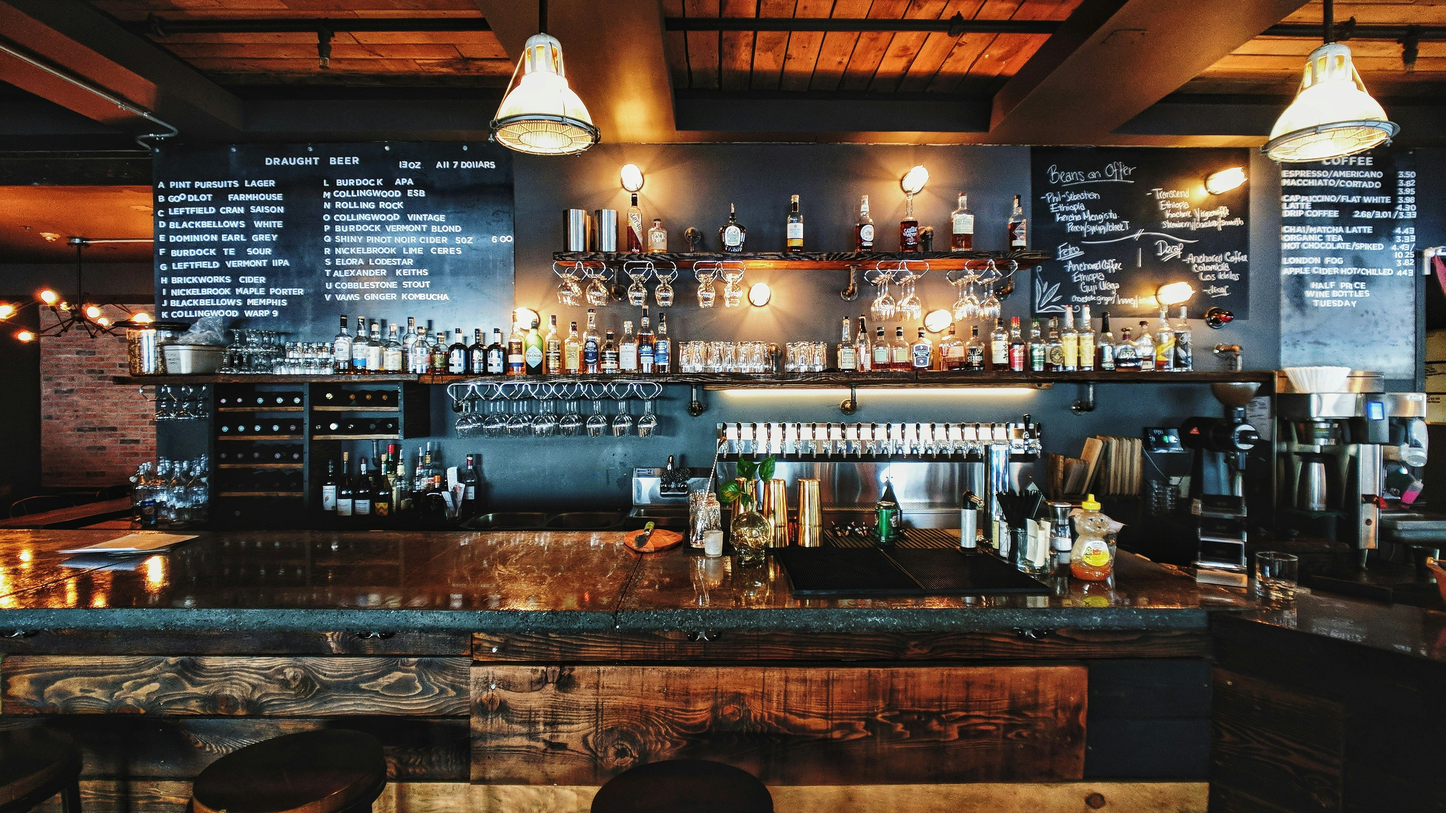
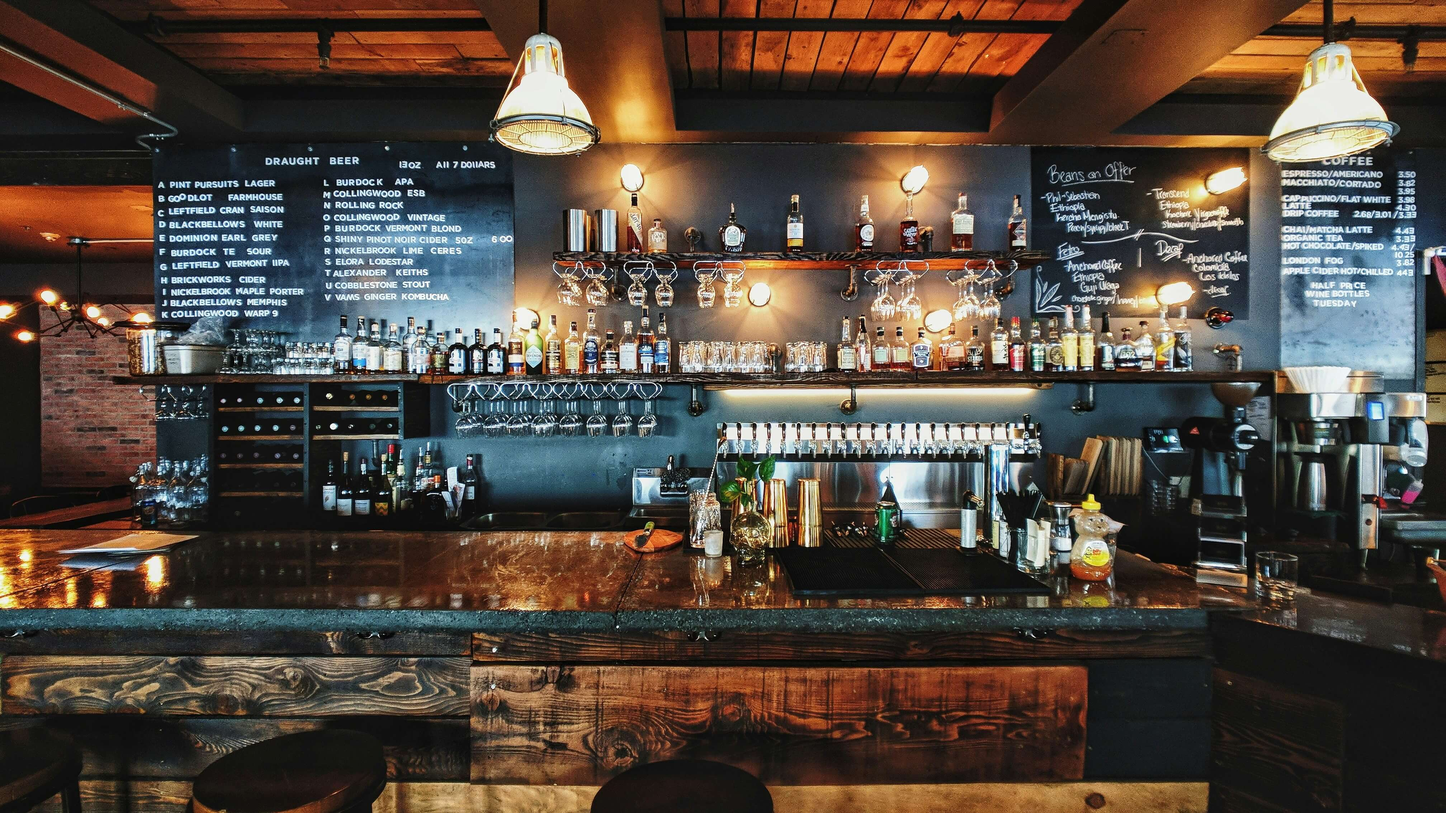
update picture to compressed version to save space and loading times

diff --git a/README.md b/README.md
@@ -1,1 +1,329 @@
-# User-Centric-Frontend-Development--Build-n-Blend
+Build n Blend
+
+Lunar Escape Company is looking for people who want to win a trip to the Moon.
+Anybody can sign up through the form application and choose between options such as a regular flight, exploring the surface, or even both.
+The form is already set up to include both options; it is up to the user to decide.
+
+In the about section, there are job opportunities as well, as Lunar Escape Company is always looking for talented people to hire.
+There are links for social media contact and even an address and a phone number.
+
+![Am I Responsive](assests/images/am-i-responsive.png)
+
+[View Build n Blend live project here](https://github.com/RhysTyler112/User-Centric-Frontend-Development--Build-n-Blend/)
+- - -
+## Table of Contents
+
+### [User Experience (UX)](#user-experience-ux-1)
+* [User Stories](#user-stories)
+### [Design](#design-1)
+### [Features](#features)
+* [Existing Features](#existing-features)
+### [Features Left to Implement](#features-left-to-implement-1)
+### [Technologies Used](#technologies-used-1)
+### [Frameworks, Libraries & Programs Used](#frameworks-libraries--programs-used-1)
+### [Testing](#testing-1)
+* [Validation Results](#validation-results)
+* [Manual Testing](#manual-testing)
+* [Lighthouse Report](#lighthouse-report)
+### [Deployment and local development](#deployment-and-local-development-1)
+* [GitHub Pages](#github-pages)
+* [Forking the GitHub Repository](#forking-the-github-repository)
+* [Local Clone](#local-clone)
+### [Credits](#credits-1)
+### [Acknowledgements](#acknowledgements-1)
+---
+
+## User Experience (UX)
+
+This website is meant to attract people who like space exploration and would like to win a trip to the Moon.
+
+There is clear navigation and a form set up on the sign-up page to apply to win the trip.
+
+Users can contact Lunar Escape if they wish to join the company itself. They are always looking for people with talent.
+
+### User Stories
+
+ * First-time visitor goals
+    * Understand the main purpose of the site and learn more about the Lunar Escape company.
+    * Easily navigate throughout the site.
+    * Find the Sign Up form and fill it out.
+ * Returning visitor goals
+    * Find out information about the company.
+    * Locate contact information.
+    * Review the site's extensive gallery.
+
+ * Frequent user goals
+    * Check if there are any new packages to apply for in the sign-up form.
+    * Review the gallery for any new photos.
+- - -
+
+## Features
+
+* This website is targeting people who want to win a trip to the moon.
+* They can do that by navigating to the sign-up page and filling out a form.
+* Responsive on all device sizes.
+
+### Existing Features
+
+* Navigation bar
+    * It is featured and fixed on all three pages and the form-received page.
+    * Includes links to the logo, home page, gallery, and sign-up page.
+    * It is identical in design across the pages.
+    * Allows easy navigation from page to page without having to revert back to the previous page via the "back" button.
+
+![Navigation](/assets/images/nav-bar.PNG)
+
+* Main heading
+    * It is composed of a background image featuring "stars in the night sky".
+    * Main heading, which is unique for each page:
+        * The home page is comprised of 'Are you ready to explore the moon?"
+        * Gallery is made up of 'Welcome to our Gallery'.
+        * The sign up page is comprised of 'Application Form'
+        * appllication-received is comprised of 'Application Received'.
+
+![Main heading](/assets/images/main-heading-image.PNG)
+
+* Section one, Dreams and info
+    * This section contains a short heading followed by images.
+    * It gives us a brief description of what we can accomplish through this website.
+
+![Dreams and Info](/assets/images/section-one.PNG)
+
+* Section two, 'How is it possible?'
+    * Information about commercial rocket.
+    * Link to the Sign Up form page to apply for a lucky draw.
+
+![How is it possible?](/assets/images/section-two.PNG)
+
+* About Lunar Escape
+    * This section will allow users to get information about the Lunar Escape Company.
+    * Opportunity to join the company because they are always looking for talented people.
+    * Address and contact number.
+
+![About Lunar Escape](/assets/images/section-three.PNG)
+
+* Footer
+    * Links to the social media for Lunar Escape will open in a new tab to allow easy navigation for the user.
+    * It is valuable to the user as it gives them an easy contact option via social media.
+    * Hold copyright information about the author. 
+
+![Footer](/assets/images/footer-image.PNG)
+
+* Gallery 
+    * The gallery will provide the user with supporting images to see shuttle launches, flights, and astronauts.
+    * This section is valuable to the user as they will see our previous flights and astronauts on the Moon.
+
+![Gallery](/assets/images/gallery-image.PNG)
+
+* The Sign Up page
+    * This page will allow users to choose a package, sign up for it, and win a trip to the moon in a lucky draw.
+    * The user can choose a regular flight and explore the surface of both of these to be in the lucky draw.
+    * In the future, there might be more packages to choose from. 
+
+![Sign Up Form](/assets/images/form-image.PNG)
+
+* The Sign Up received page
+    * Form received
+
+![Form received](/assets/images/form-received-image.PNG)
+
+---
+
+## Features Left to Implement
+
+* Additional packages might be available in the form section.
+* Updated gallery with additional images.
+* In the future, there could be an online academy that will teach aerospace engineering, which you could join through this website.
+---
+
+## Design
+
+ * Colour Scheme
+    * Primary colors used on the website: ![Color Scheme](/assets/images/colors-used.png)
+
+ * Typography
+    * Kanit font is main font used throughout the ite with sans-serif as its fallback font in case Kanit doesn't import for some reasson.
+
+ * Wireframes
+    * Pen and paper in a notebook: simple and effective.
+---
+
+## Technologies Used
+
+ * [HTML5](https://en.wikipedia.org/wiki/HTML5)
+ * [CSS3](https://en.wikipedia.org/wiki/CSS)
+
+---
+
+## Frameworks, Libraries & Programs Used
+
+ * [Gitpod](https://www.gitpod.io/)
+    * To write the code.
+ * [Git](https://git-scm.com/)
+    * for vesion control.
+ * [Github](https://github.com/)
+    * Deployment of the website and storing the files online.
+ * [Google Fonts](https://fonts.google.com/)
+    * Import main font the website.
+* [Am I Responsive](https://ui.dev/amiresponsive)
+    * Mockup picture for the README file.
+---
+
+## Testing
+
+The W3C Markup Validator and W3C CSS Validator services were used to validate every page of the project to ensure there were no errors.
+
+ * [W3C Markup Validtor](https://validator.w3.org/)
+ * [W3C CSS Validator](https://jigsaw.w3.org/css-validator/)
+
+### Validation results
+
+<details>
+<summary>index.html
+</summary>
+
+![Home Page validation result](/assets/images/html-validation.PNG)
+</details>
+<details>
+<summary>gallery.html
+</summary>
+
+![Gallery validation result](/assets/images/html-validation.PNG)
+</details>
+<details>
+<summary>sign-up.html
+</summary>
+
+![Sign Up page validation result](/assets/images/html-validation.PNG)
+</details>
+<details>
+<summary>form-received.htmml
+</summary>
+
+![Application Received validation result](/assets/images/html-validation.PNG)
+</details>
+<details>
+<summary>style.css
+</summary>
+
+![CSS validation result](/assets/images/css-validation.PNG)
+</details>
+
+### Manual Testing
+
+* The website was tested on Google Chrome, Microsoft Edge, and Opera browsers.
+* The website was viewed on a desktop computer, laptop, and Samsung Galaxy A52 mobile phone.
+* A large amount of testing was done to ensure links between pages are working correctly on all pages.
+* Family and friends were asked to review the website for a better understanding of the user experience.
+* Dev Tools was used to test how the site looks on various screen sizes.
+
+### Lighthouse Report
+
+#### Mobile analysis
+<details>
+<summary>Home Page
+</summary>
+
+![Home Page lighthouse report](/assets/images/home-mobile-report.PNG)
+</details>
+<details>
+<summary>Gallery
+</summary>
+
+![Gallery lighthouse report](/assets/images/gallery-mobile-report.PNG)
+</details>
+<details>
+<summary>Sign Up
+</summary>
+
+![Sign Up Page lighthouse report](/assets/images/sign-up-mobile-report.PNG)
+</details>
+<details>
+<summary>Application Received
+</summary>
+
+![Application received lighthouse report](/assets/images/form-received-mobile-report.PNG)
+</details>
+
+#### Desktop analysis
+<details>
+<summary>Home Page
+</summary>
+
+![Home Page lighthouse report](/assets/images/home-page-report.PNG)
+</details>
+<details>
+<summary>Gallery
+</summary>
+
+![Gallery lighthouse report](/assets/images/gallery-report.PNG)
+</details>
+<details>
+<summary>Sign Up
+</summary>
+
+![Sign Up Page lighthouse report](/assets/images/sign-up-report.PNG)
+</details>
+<details>
+<summary>Application Received
+</summary>
+
+![Application received lighthouse report](/assets/images/form-received-report.PNG)
+</details>
+
+---
+
+## Deployment and local development
+
+### GitHub Pages
+
+GitHub Pages used to deploy live version of the website.
+1. Log in to GitHub and locate [GitHub Repository Lunar Escape](https://github.com/Thomas-Tomo/Lunar-Escape)
+2. At the top of the Repository(not the main navigation) locate "Settings" button on the menu.
+3. Scroll down the Settings page until you locate "GitHub Pages".
+4. Under "Source", click the dropdown menu "None" and select "Main" and click "Save".
+5. The page will automatically refresh.
+6. Scroll back to locate the now-published site [link](https://thomas-tomo.github.io/Lunar-Escape/index.html) in the "GitHub Pages" section.
+
+### Forking the GitHub Repository
+
+By forking the repository, we make a copy of the original repository on our GitHub account to view and change without affecting the original repository by using these steps:
+
+1. Log in to GitHub and locate [GitHub Repository Lunar Escape](https://github.com/Thomas-Tomo/Lunar-Escape)
+2. At the top of the Repository(under the main navigation) locate "Fork" button.
+3. Now you should have a copy of the original repository in your GitHub account.
+
+### Local Clone
+
+1. Log in to GitHub and locate [GitHub Repository Lunar Escape](https://github.com/Thomas-Tomo/Lunar-Escape)
+2. Under the repository name click "Clone or download"
+3. Click on the code button, select clone with HTTPS, SSH or GitHub CLI and copy the link shown.
+4. Open Git Bash
+5. Change the current working directory to the location where you want the cloned directory to be made.
+6. Type `git clone` and then paste The URL copied in the step 3.
+7. Press Enter and your local clone will be created.
+
+---
+
+## Credits
+
+### Code
+ * Understanding the concept of flexbox was learned through [Complete Guide to Flexbox](https://css-tricks.com/snippets/css/a-guide-to-flexbox/)
+ * The README template was helpfully provided by [Code Institute (template)](https://github.com/Code-Institute-Solutions/SampleREADME)
+
+### Content
+
+ * All content was written by the developer.
+ * [Color contrast checker](https://coolors.co/contrast-checker/112a46-acc8e5) was used to decide which colors would be used for the website.
+
+### Media 
+
+ * [Pexels](https://www.pexels.com/) free stock photos, royalty free images.
+ * [Pixabay](https://pixabay.com/) free stock photos, royalty free images.
+ * [Pixlr](https://pixlr.com/) Resizing images.
+---
+
+## Acknowledgements
+
+ * My mentor Mitko Bachvarov provided helpful feedback and a link to the Flexbox guide.
+ * Slack community for encouragement and information.
